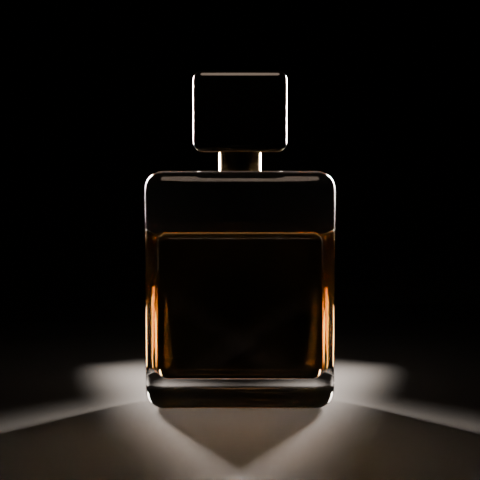
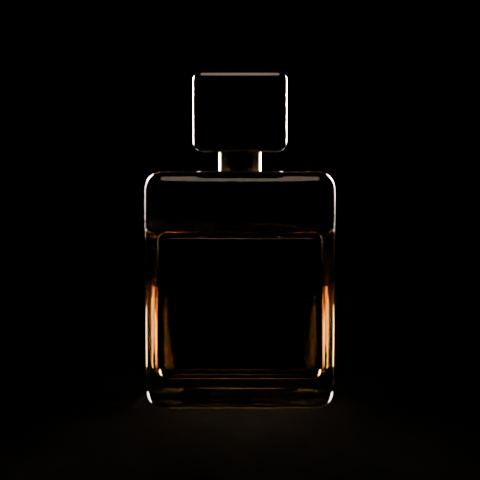
Dark-field recipe: light linking keeps floor clean, matte vs acrylic floor variants
Claude-Session: https://claude.ai/code/session_01T4dBgPbGaUqaWyRtkrxAEs

diff --git a/tools/render_recipe.py b/tools/render_recipe.py
@@ -20,7 +20,7 @@ recipes = {r["id"]: r for r in json.load(open(os.path.join(ROOT, "catalog/recipe
 recipe = override or recipes[rid]
 
 KIND = {"rect": "AREA", "spot": "SPOT", "point": "POINT", "sun": "SUN"}
-BACKDROP = {"black": 0.008, "white": 0.85, "dark_gradient": 0.03, "light_gradient": 0.6}
+BACKDROP = {"black_glossy": 0.004, "black": 0.008, "white": 0.85, "dark_gradient": 0.03, "light_gradient": 0.6}
 
 bpy.ops.wm.read_factory_settings(use_empty=True)
 bpy.ops.import_scene.gltf(filepath=model)
@@ -55,16 +55,26 @@ bpy.context.scene.collection.objects.link(sweep)
 m = bpy.data.materials.new("Backdrop"); m.use_nodes = True
 b = m.node_tree.nodes["Principled BSDF"]
 b.inputs["Base Color"].default_value = (alb, alb, alb, 1)
-b.inputs["Roughness"].default_value = 0.95 if bd == "black" else 0.8
+b.inputs["Roughness"].default_value = {"black": 0.95, "black_glossy": 0.04}.get(bd, 0.8)
+if bd == "black_glossy":
+    b.inputs["Coat Weight"].default_value = 1.0  # acrylic: clean mirror reflection
+elif bd == "black":
+    b.inputs["Specular IOR Level"].default_value = 0.0  # truly matte: no blurry reflection of the bright subject
 me.materials.append(m)
 
 # lights from the recipe, in subject/camera coordinates
 ctx = ns["lt_setup"](rid, subject=[o.name for o in meshes])
+subject_col = bpy.data.collections.new("LT_SubjectOnly")
+for o in meshes:
+    subject_col.objects.link(o)
 for l in recipe["rig"]:
     size_v = tuple(l["size"]) if isinstance(l.get("size"), list) else l.get("size", 0.5)
     ns["lt_light"](ctx, l["role"], kind=KIND[l["kind"]], az=l["az"], el=l["el"], dist=l.get("dist", 1.5),
                    ratio=l.get("ratio", 1.0), size=size_v, kelvin=l.get("kelvin", 5600),
                    color=tuple(l["color"]) if l.get("color") else None, spread=l.get("spread"))
+    if l.get("subject_only"):  # light linking: this light does not touch the floor/backdrop
+        lo_ = bpy.data.objects["LT_" + l["role"]]
+        lo_.light_linking.receiver_collection = subject_col
 w = recipe.get("world", {})
 ns["lt_world"](strength=w.get("strength", 0.0), color=tuple(w.get("color", (1, 1, 1))), exposure=recipe.get("exposure"))
 
@@ -75,6 +85,9 @@ sc.cycles.use_denoising = True
 sc.cycles.max_bounces = 16
 sc.cycles.transmission_bounces = 16
 sc.cycles.glossy_bounces = 8
+if recipe.get("no_caustics"):  # glass refracting light onto the floor
+    sc.cycles.caustics_refractive = False
+    sc.cycles.caustics_reflective = False
 sc.render.resolution_x = sc.render.resolution_y = RES
 sc.view_settings.view_transform = 'AgX'
 sc.render.filepath = out
